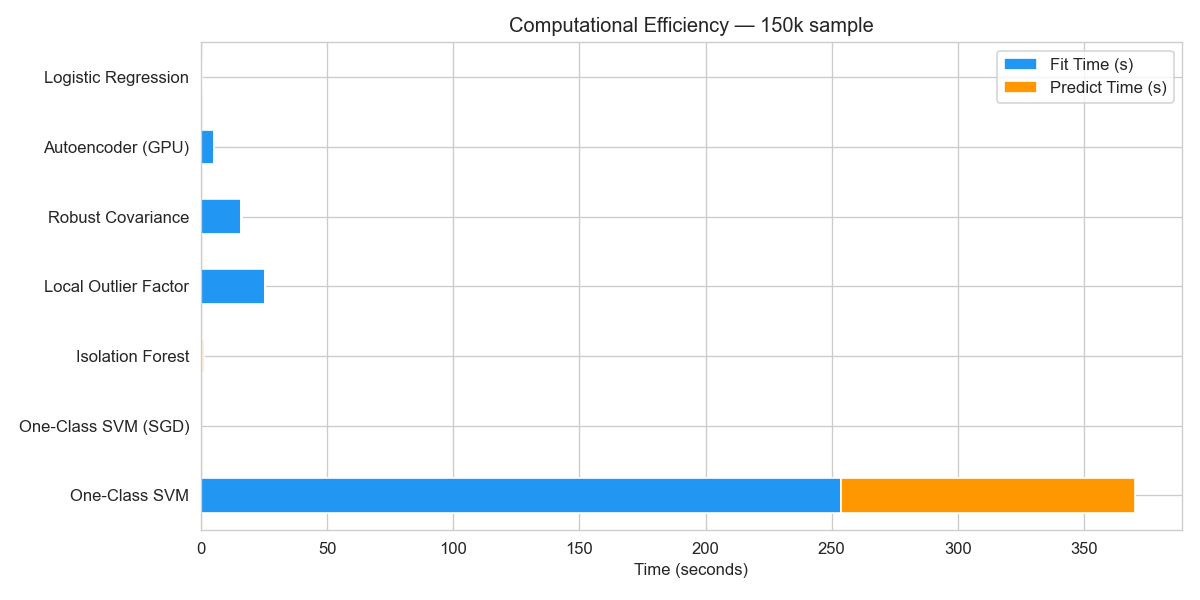
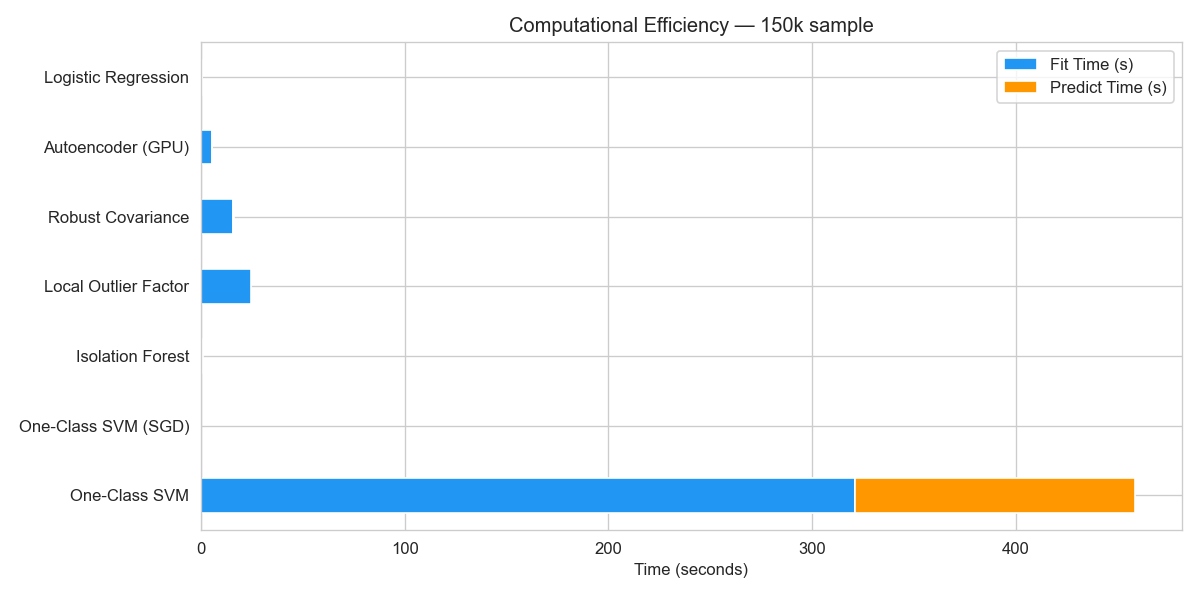
new results from last run

diff --git a/results/comparison/summary.md b/results/comparison/summary.md
@@ -74,13 +74,13 @@
 
 ## Total Time (s)
 
-| Model                |     30k |      80k |     150k |     230k |
-|:---------------------|--------:|---------:|---------:|---------:|
-| Autoencoder (GPU)    |  2.6677 |   2.6277 |   5.2518 |   6.8173 |
-| Isolation Forest     |  0.299  |   0.4715 |   1.0748 |   1.6682 |
-| Local Outlier Factor |  3.5538 |   5.9179 |  25.392  |  57.1514 |
-| Logistic Regression  |  0.0855 |   0.1729 |   0.3531 |   0.5736 |
-| One-Class SVM        | 16.5208 | 107.125  | 370.362  | 893.618  |
-| One-Class SVM (SGD)  |  0.0251 |   0.0725 |   0.1692 |   0.2845 |
-| Robust Covariance    |  2.7585 |   6.6203 |  16.111  |  24.3117 |
+| Model                |     30k |      80k |     150k |      230k |
+|:---------------------|--------:|---------:|---------:|----------:|
+| Autoencoder (GPU)    |  1.942  |   2.7094 |   5.4303 |    7.7966 |
+| Isolation Forest     |  0.241  |   0.6488 |   1.1998 |    2.1808 |
+| Local Outlier Factor |  3.3643 |   6.9823 |  24.6962 |   63.4713 |
+| Logistic Regression  |  0.0627 |   0.2198 |   0.3358 |    0.6673 |
+| One-Class SVM        | 13.4593 | 138.777  | 458.685  | 1124.67   |
+| One-Class SVM (SGD)  |  0.0232 |   0.0993 |   0.1843 |    0.4623 |
+| Robust Covariance    |  2.4329 |   7.9879 |  16.0551 |   31.0315 |
 
